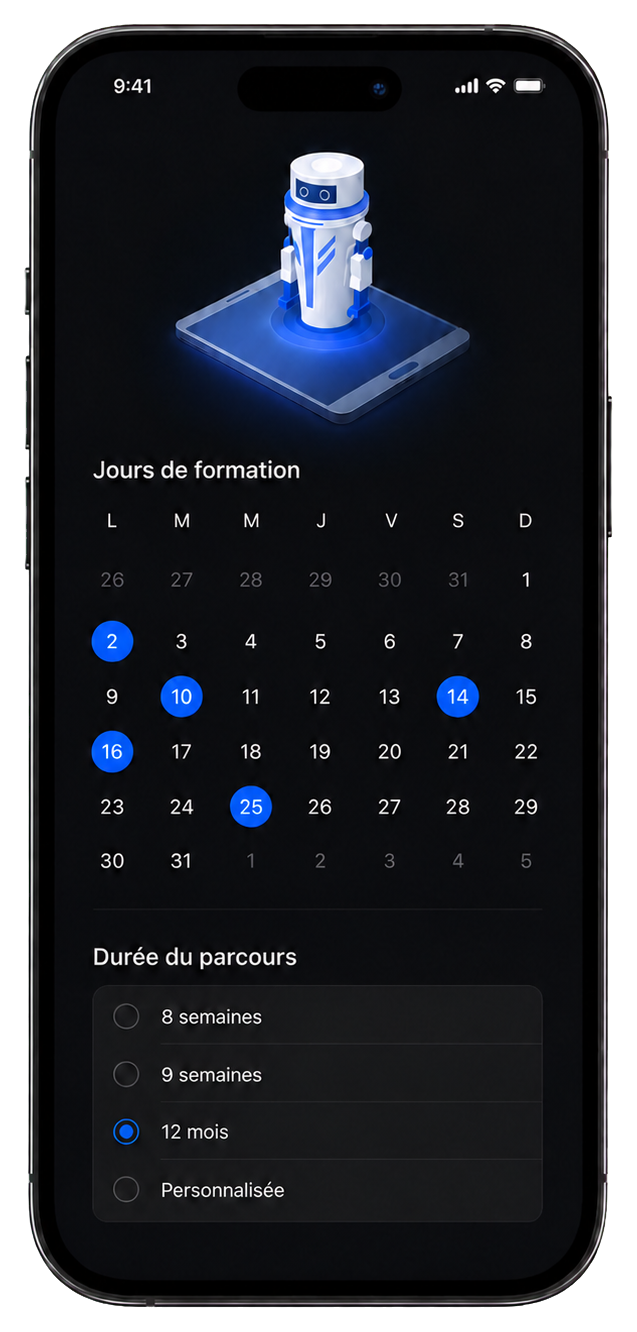
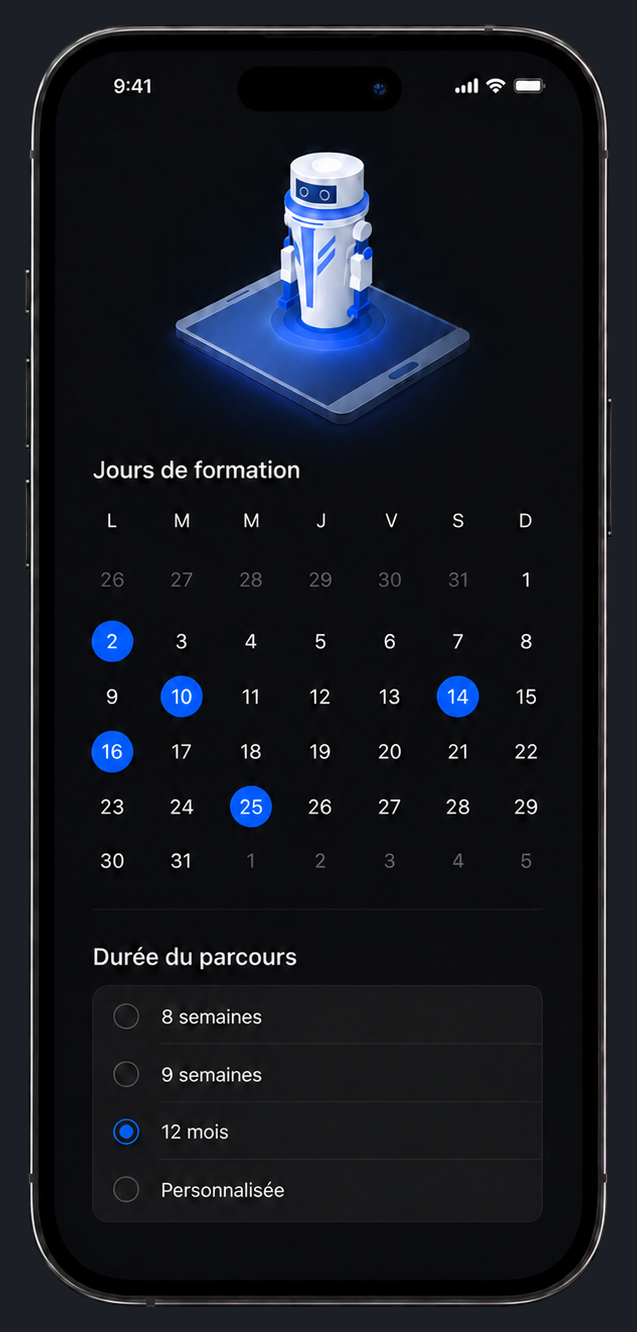
Réduit et fiabilise le visuel mobile

Changed region(s): [[0.0, 0.0, 1.0, 1.0]]

diff --git a/frontend/src/limovaClone/sections/CharlySection/components/WhatsAppDemo.tsx b/frontend/src/limovaClone/sections/CharlySection/components/WhatsAppDemo.tsx
@@ -5,7 +5,7 @@ export const WhatsAppDemo = () => (
       alt="Interface mobile Cadrenza pour planifier les jours de formation"
       width="637"
       height="1332"
-      className="h-auto w-full max-w-[380px] object-contain"
+      className="h-auto w-full max-w-[280px] object-contain md:max-w-[300px]"
       loading="lazy"
       decoding="async"
     />
